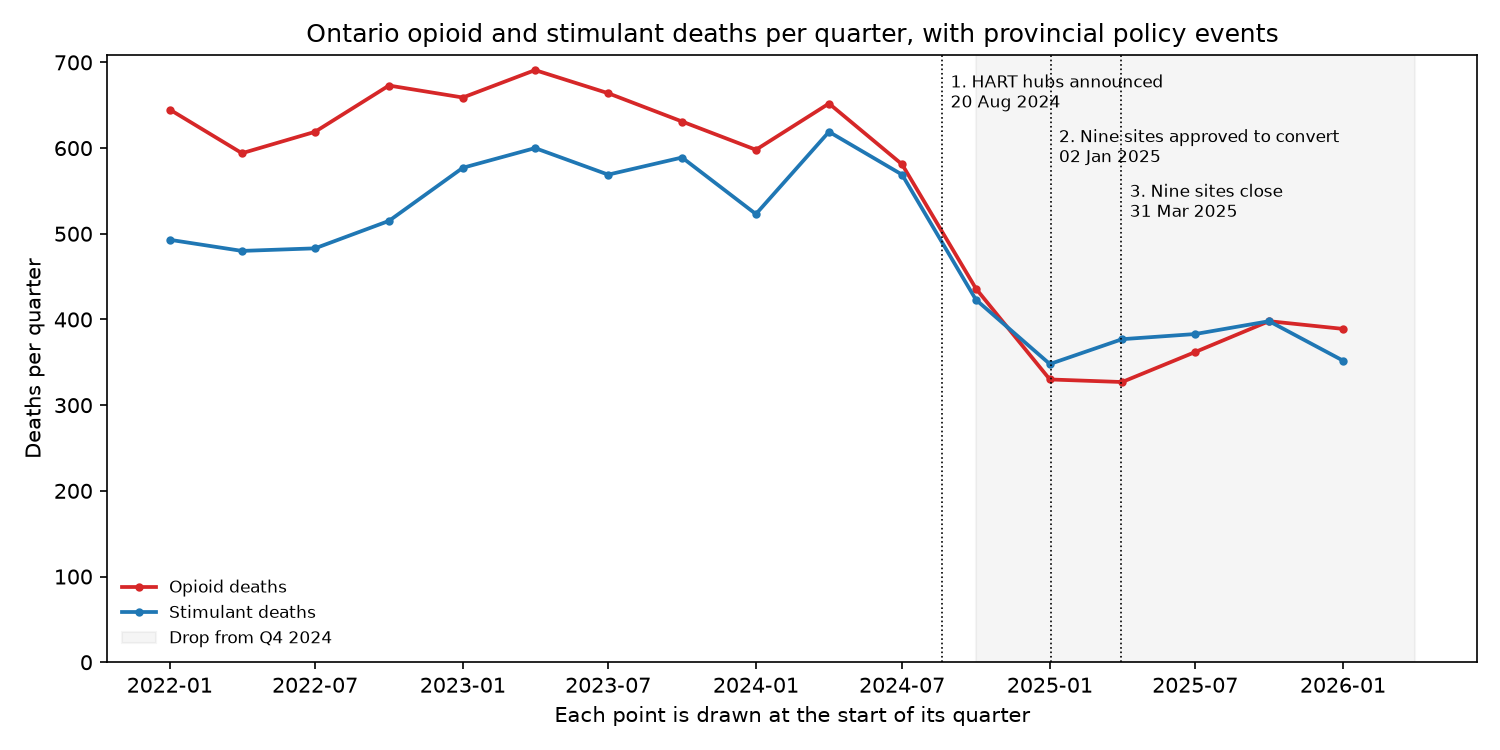
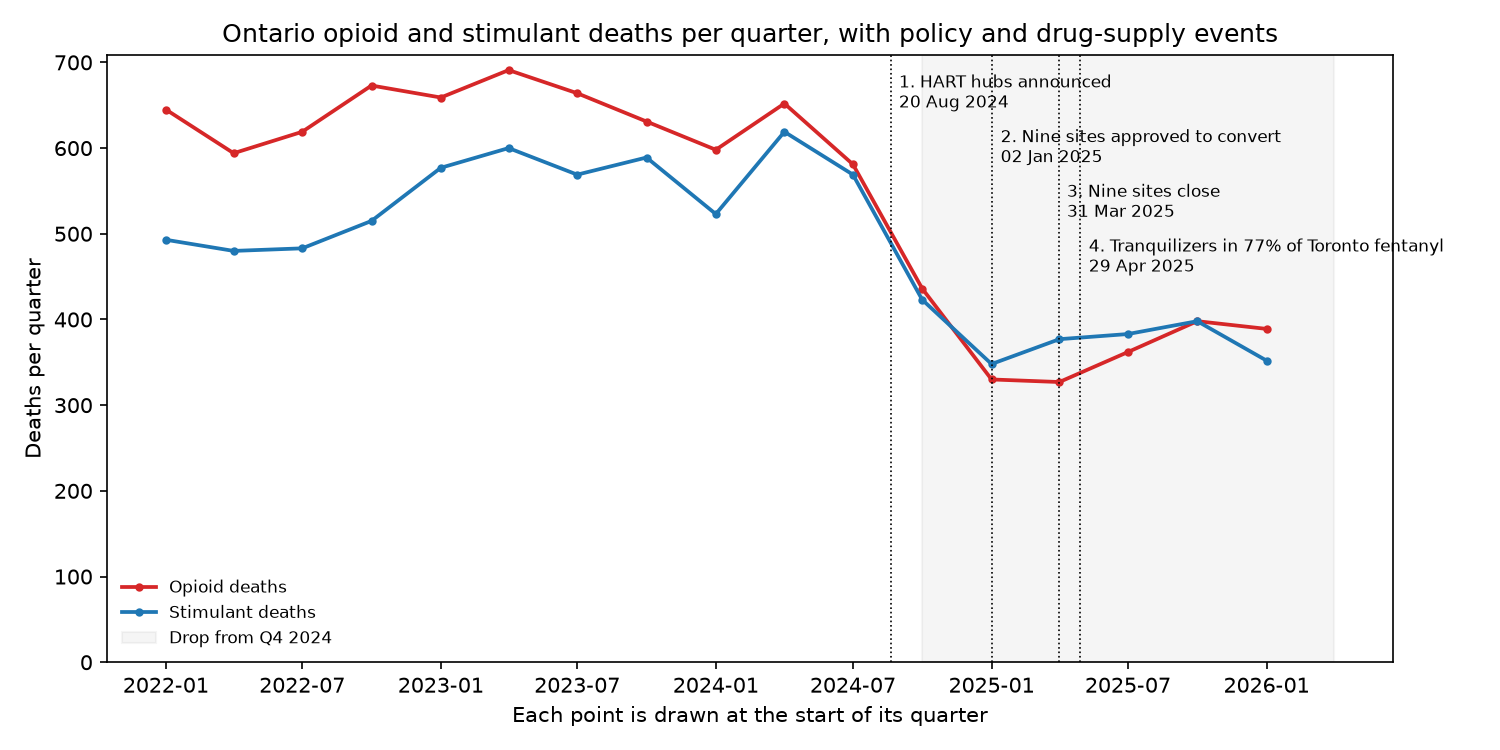
Add dated drug-supply report to the event timeline

diff --git a/scripts/07_event_timeline.py b/scripts/07_event_timeline.py
@@ -1,4 +1,4 @@
-"""Ontario quarterly deaths with dated policy events drawn on the chart.
+"""Ontario quarterly deaths with dated policy and drug-supply events drawn on the chart.
 
 The events are annotations only. They are not inputs to any model.
 
@@ -44,7 +44,7 @@ for i, row in enumerate(events.itertuples(), start=1):
     ax.annotate(f"{i}. {row.short_label}\n{row.date:%d %b %Y}", (row.date, top * (0.97 - 0.09 * (i - 1))),
                 xytext=(4, 0), textcoords="offset points", fontsize=8, va="top")
 
-ax.set_title("Ontario opioid and stimulant deaths per quarter, with provincial policy events")
+ax.set_title("Ontario opioid and stimulant deaths per quarter, with policy and drug-supply events")
 ax.set_ylabel("Deaths per quarter")
 ax.set_xlabel("Each point is drawn at the start of its quarter")
 ax.set_ylim(bottom=0)

diff --git a/README.md b/README.md
@@ -33,7 +33,7 @@ The three tools agree on the main result. R's auto.arima picked the same ARIMA(0
 
 Ontario's 2025 drop was larger than Canada's. Ontario's opioid death rate fell from 14.0 per 100,000 in 2024 to 8.7 in 2025 (down 38%), while Canada's fell from 16.2 to 13.7 (down 15%). Ontario's stimulant death rate fell from 13.2 to 9.3, and Canada's from 14.2 to 13.3. From 2019 to 2021 Ontario's death rates were at or slightly above Canada's for both substances. Ontario's hospitalization rates have been below Canada's in every year since 2016. Canada's totals include Ontario, so the gap with the rest of the country is larger than these figures show. The rates are in `results/ontario_vs_canada_rates.csv` and the chart is `images/ontario_vs_canada_rates.png`.
 
-The provincial policy changes do not explain when the drop began. `images/event_timeline.png` marks three dated events from Google News (listed with links in `data/events.csv`): Ontario announced HART hubs and a ban on supervised consumption sites near schools on 20 August 2024, approved nine sites to become HART hubs on 2 January 2025, and the nine sites were due to close at the end of March 2025. Opioid deaths had already fallen from 581 in Q3 2024 to 436 in Q4 2024 and 330 in Q1 2025 before any site closed. The decline was also national: opioid deaths fell 15.4% in Ontario in 2024 (2,638 to 2,231) and 17.1% across Canada ([CATIE, 1 August 2025](https://www.catie.ca/prevention-in-focus/reported-drug-toxicity-deaths-dropped-in-parts-of-canada-in-2024-but-whats)). CATIE lists possible causes, none of them proven: lower fentanyl concentration in the unregulated supply, more sedatives such as benzodiazepines and xylazine in it, a shift from injecting to smoking, fewer people using drugs, and the deaths of many people at highest risk in earlier years. The events are annotations only and are not inputs to any model.
+The provincial policy changes do not explain when the drop began. `images/event_timeline.png` marks three dated policy events from Google News (listed with links in `data/events.csv`): Ontario announced HART hubs and a ban on supervised consumption sites near schools on 20 August 2024, approved nine sites to become HART hubs on 2 January 2025, and the nine sites were due to close at the end of March 2025. Opioid deaths had already fallen from 581 in Q3 2024 to 436 in Q4 2024 and 330 in Q1 2025 before any site closed. The decline was also national: opioid deaths fell 15.4% in Ontario in 2024 (2,638 to 2,231) and 17.1% across Canada ([CATIE, 1 August 2025](https://www.catie.ca/prevention-in-focus/reported-drug-toxicity-deaths-dropped-in-parts-of-canada-in-2024-but-whats)). CATIE lists possible causes, none of them proven: lower fentanyl concentration in the unregulated supply, more sedatives such as benzodiazepines and xylazine in it, a shift from injecting to smoking, fewer people using drugs, and the deaths of many people at highest risk in earlier years. A search of Canadian news from June 2024 to June 2025 found no drug-supply change with an exact date before the drop. The chart marks the nearest dated supply report: on 29 April 2025, Toronto's Drug Checking Service said veterinary tranquilizers, mostly xylazine, were in 77% of fentanyl samples submitted in March 2025 ([Canadian Affairs](https://www.canadianaffairs.news/2025/04/29/dangerous-veterinary-tranquilizers-now-found-in-most-fentanyl-samples/)). The same article says the service first reported medetomidine in December 2023 and that the tranquilizers became common in Ontario in early 2024, but it gives no exact date, so that change is not on the chart. The rise in sedatives came before the drop, which fits CATIE's list, but it does not prove a cause. The events are annotations only and are not inputs to any model.
 
 ![Ontario deaths with policy events](images/event_timeline.png)
 
